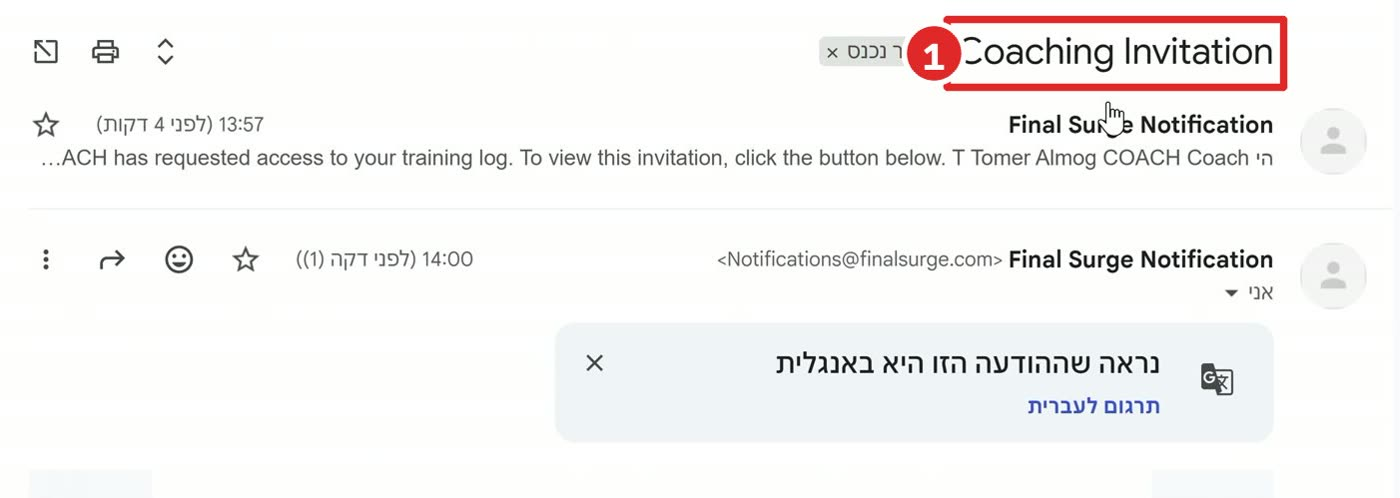
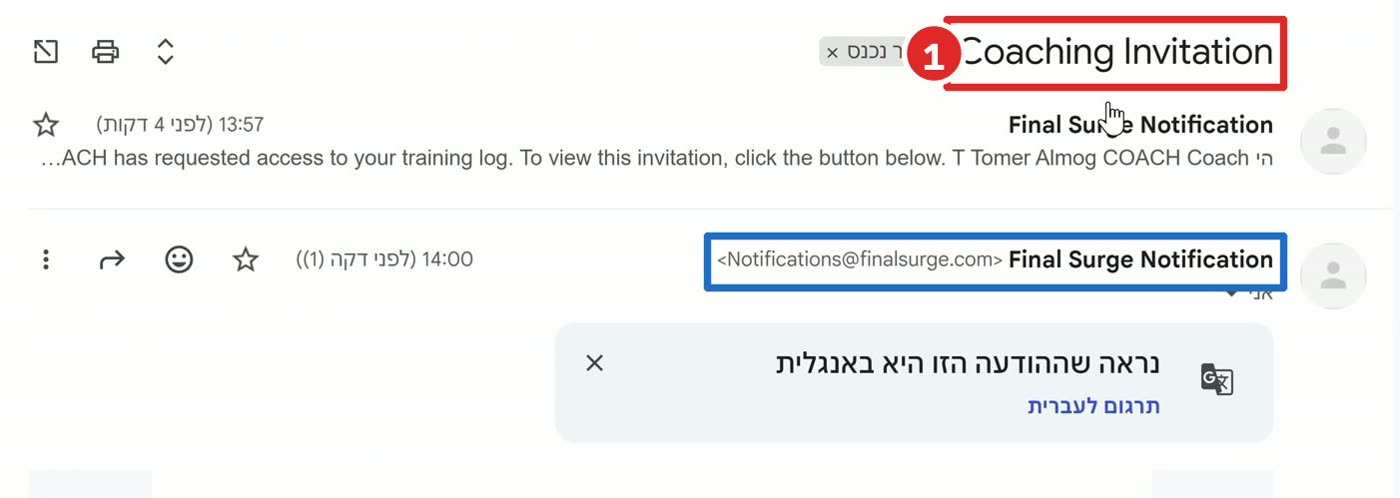
Onboarding: mark the Final Surge sender in the first screenshot

Changed region(s): [[0.4914, 0.4518, 0.9214, 0.6024]]

diff --git a/src/data/onboarding.ts b/src/data/onboarding.ts
@@ -35,8 +35,8 @@ export const onboardingSteps: OnboardingStep[] = [
     intro: "Final Surge היא המערכת שבה תראה את האימונים שלך ותדווח עליהם.",
     items: [
       {
-        text: "מקבלים מייל מ-Final Surge בשם Coaching Invitation, ופותחים אותו.",
-        image: { src: "/images/onboarding/finalsurge-01.jpg", alt: "המייל Coaching Invitation בתיבת הדואר, הנושא מסומן באדום" },
+        text: "מקבלים מייל בשם Coaching Invitation. השולח הוא Final Surge Notification (מסומן בכחול). פותחים אותו.",
+        image: { src: "/images/onboarding/finalsurge-01.jpg", alt: "המייל Coaching Invitation בתיבת הדואר, הנושא מסומן באדום והשולח Final Surge Notification בכחול" },
       },
       {
         text: "לוחצים על הכפתור האדום View Coach Invitation.",
